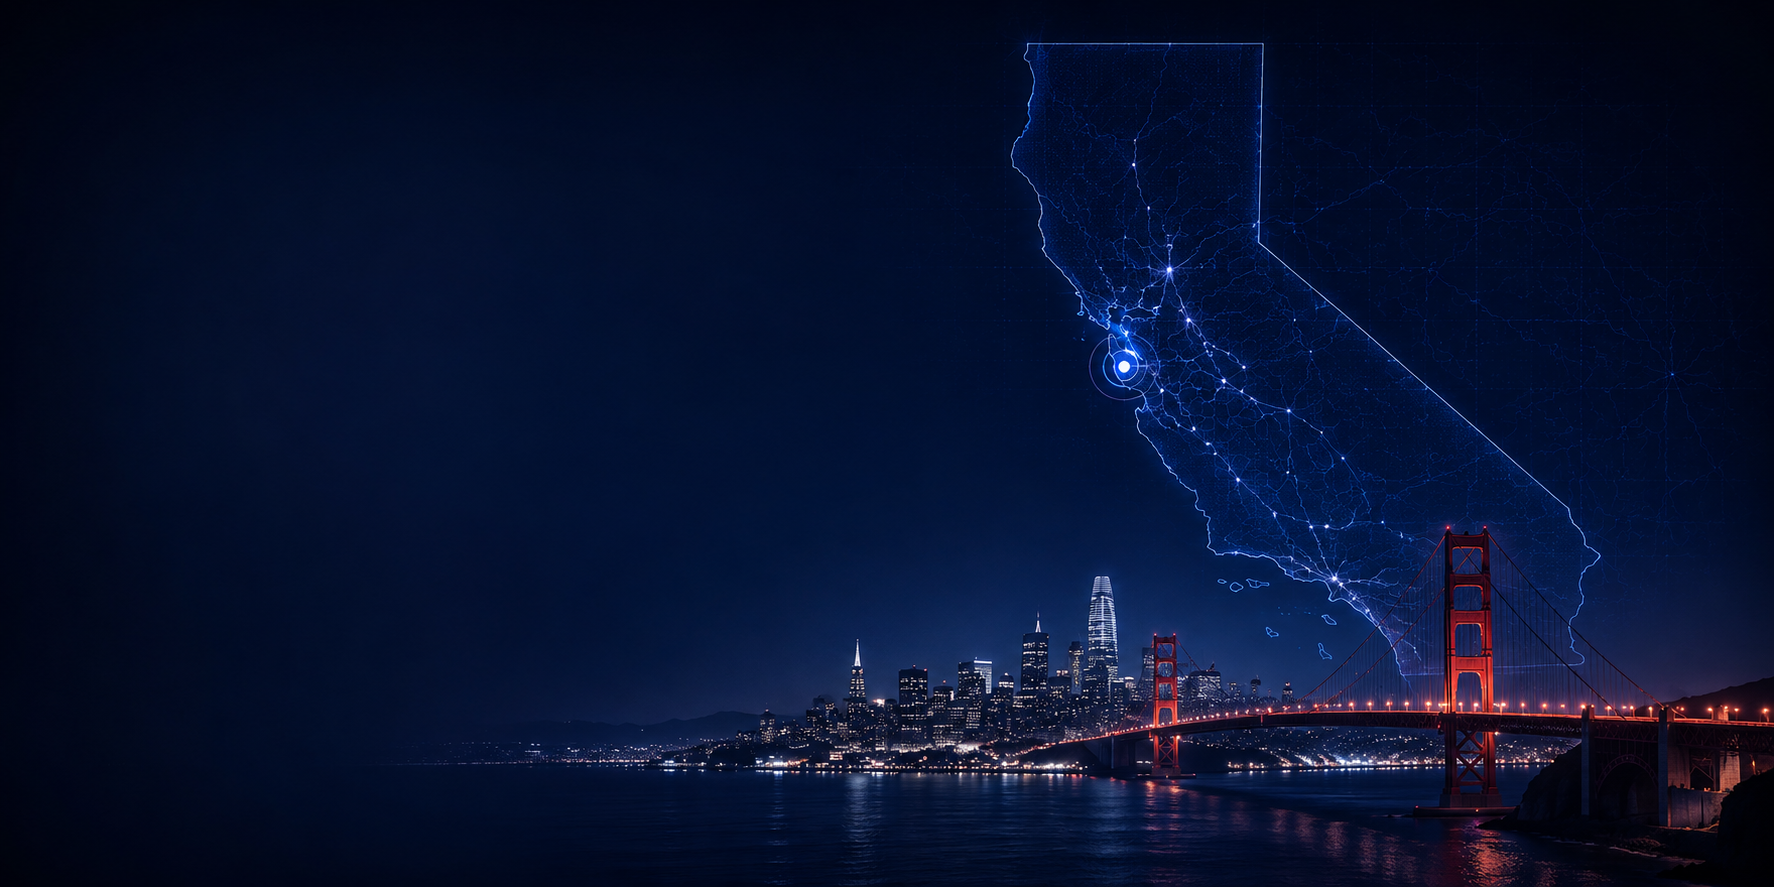
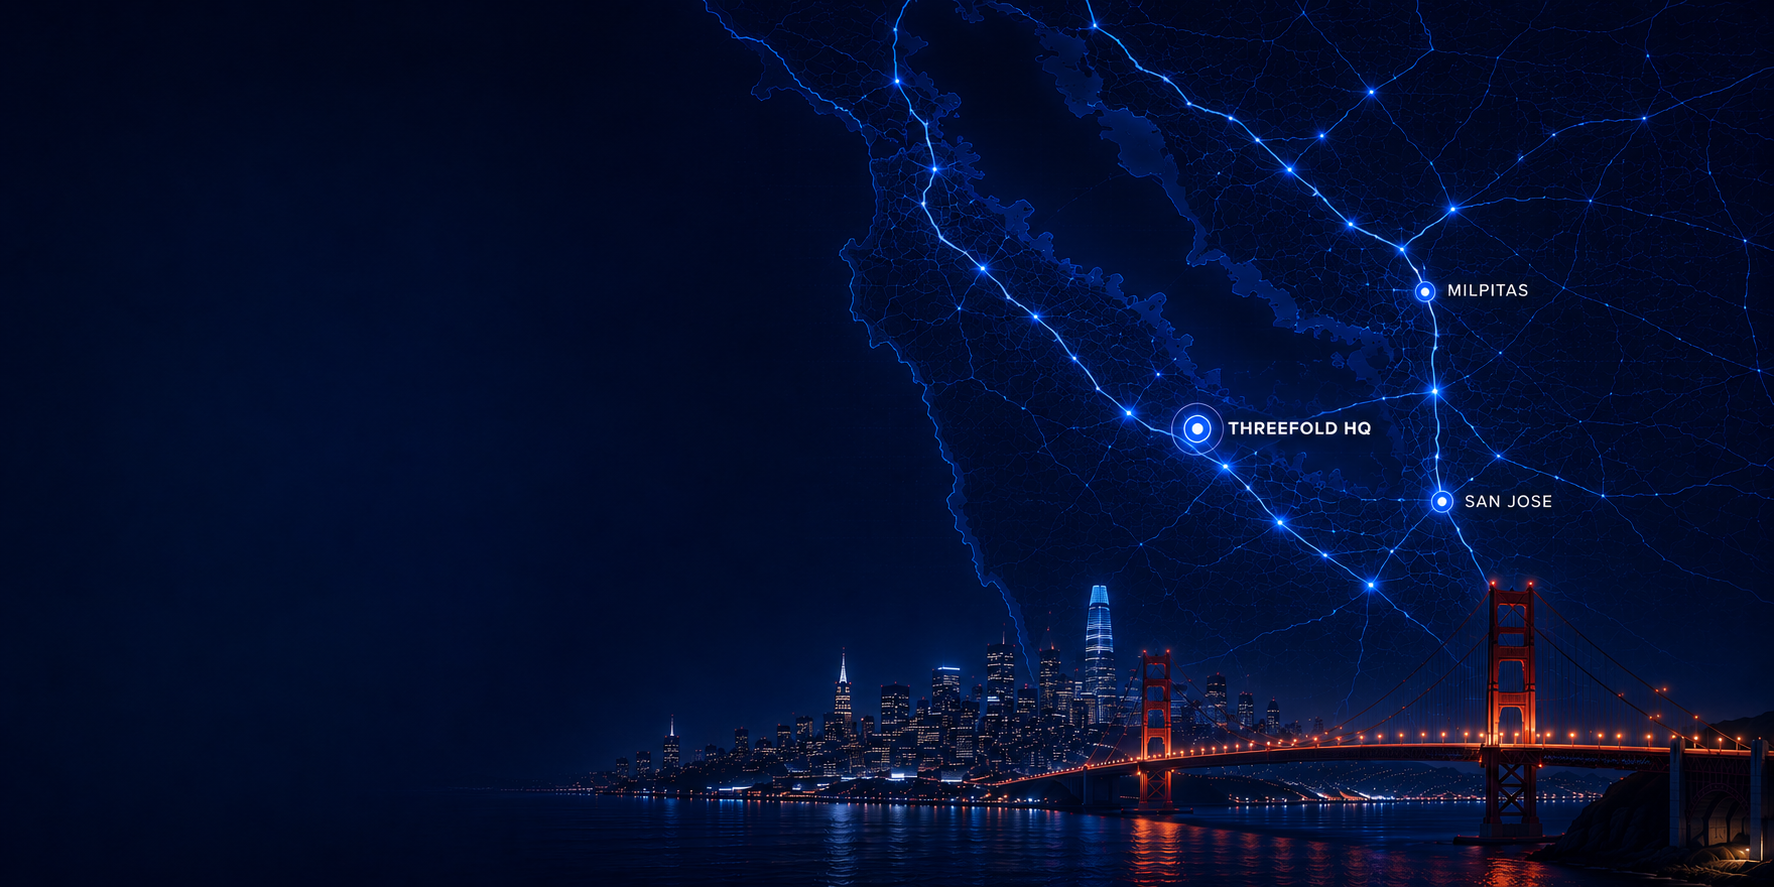
Preserve dashboard hero image composition

diff --git a/src/components/dashboard/DashboardHero.tsx b/src/components/dashboard/DashboardHero.tsx
@@ -1,5 +1,7 @@
 "use client";
 
+import Image from "next/image";
+
 type DashboardHeroProps = {
   todayLabel: string;
 };
@@ -7,18 +9,23 @@ type DashboardHeroProps = {
 export default function DashboardHero({ todayLabel }: DashboardHeroProps) {
   return (
     <section
-      className="relative -mx-4 -mt-20 min-h-[520px] overflow-hidden rounded-none border border-slate-800/80 bg-[#020817] px-5 pb-8 pt-24 text-white shadow-[0_30px_90px_rgba(2,8,23,0.34)] sm:-mx-6 md:mx-0 md:mt-0 md:min-h-[470px] md:rounded-[2.25rem] md:px-12 md:py-14"
+      className="relative -mx-4 -mt-20 min-h-[520px] overflow-hidden rounded-none border border-slate-800/80 bg-[#020817] px-5 pb-8 pt-24 text-white shadow-[0_30px_90px_rgba(2,8,23,0.34)] sm:-mx-6 md:mx-0 md:mt-0 md:min-h-[520px] md:rounded-[2.25rem] md:px-12 md:py-14"
       aria-label="Threefold operations dashboard hero"
     >
-      <div
-        className="pointer-events-none absolute inset-0 bg-no-repeat opacity-100 [background-position:center_bottom] [background-size:auto_100%] md:[background-position:center_right] md:[background-size:contain]"
-        style={{ backgroundImage: "url('/bay-area-hero-bg.png')" }}
+      <Image
+        src="/bay-area-hero-bg.png"
+        alt=""
+        aria-hidden="true"
+        fill
+        priority
+        sizes="(min-width: 1024px) 1200px, 100vw"
+        className="pointer-events-none absolute inset-0 h-full w-full object-contain object-bottom md:object-center"
       />
-      <div className="pointer-events-none absolute inset-0 bg-[linear-gradient(90deg,rgba(2,8,23,0.97)_0%,rgba(2,8,23,0.88)_30%,rgba(2,8,23,0.46)_58%,rgba(2,8,23,0.08)_100%)]" />
-      <div className="pointer-events-none absolute inset-0 bg-[radial-gradient(circle_at_22%_38%,rgba(37,99,235,0.22),transparent_30%),linear-gradient(180deg,rgba(2,8,23,0.06)_0%,rgba(2,8,23,0.28)_100%)]" />
+      <div className="pointer-events-none absolute inset-0 bg-[linear-gradient(90deg,rgba(2,8,23,0.96)_0%,rgba(2,8,23,0.78)_27%,rgba(2,8,23,0.28)_52%,rgba(2,8,23,0.02)_100%)]" />
+      <div className="pointer-events-none absolute inset-0 bg-[radial-gradient(circle_at_22%_38%,rgba(37,99,235,0.18),transparent_30%),linear-gradient(180deg,rgba(2,8,23,0.03)_0%,rgba(2,8,23,0.18)_100%)]" />
       <div className="pointer-events-none absolute inset-x-8 top-0 h-px bg-gradient-to-r from-transparent via-blue-300/70 to-transparent" />
 
-      <div className="relative z-10 flex min-h-[388px] max-w-xl flex-col justify-center md:min-h-[342px]">
+      <div className="relative z-10 flex min-h-[388px] max-w-xl flex-col justify-center md:min-h-[392px]">
         <p className="text-xs font-semibold uppercase tracking-[0.32em] text-blue-300">Operations HQ</p>
         <p className="mt-4 text-[11px] font-semibold uppercase tracking-[0.18em] text-slate-300/80">{todayLabel}</p>
         <h1 className="mt-3 text-5xl font-semibold tracking-[-0.07em] text-white drop-shadow-[0_4px_24px_rgba(0,0,0,0.45)] sm:text-6xl md:text-7xl">
